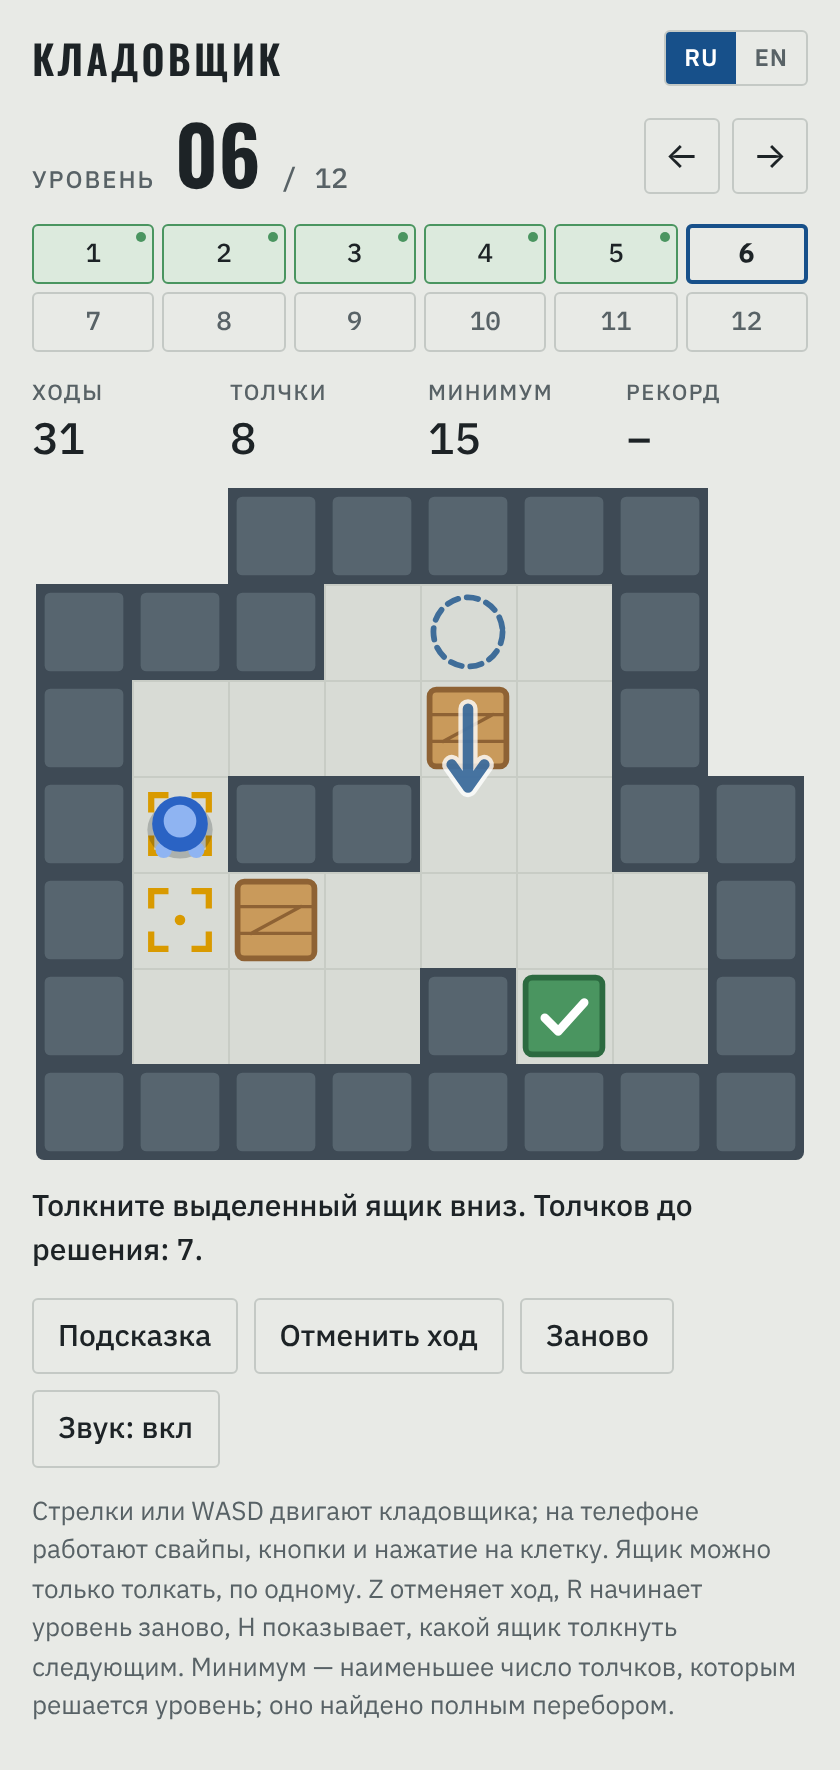
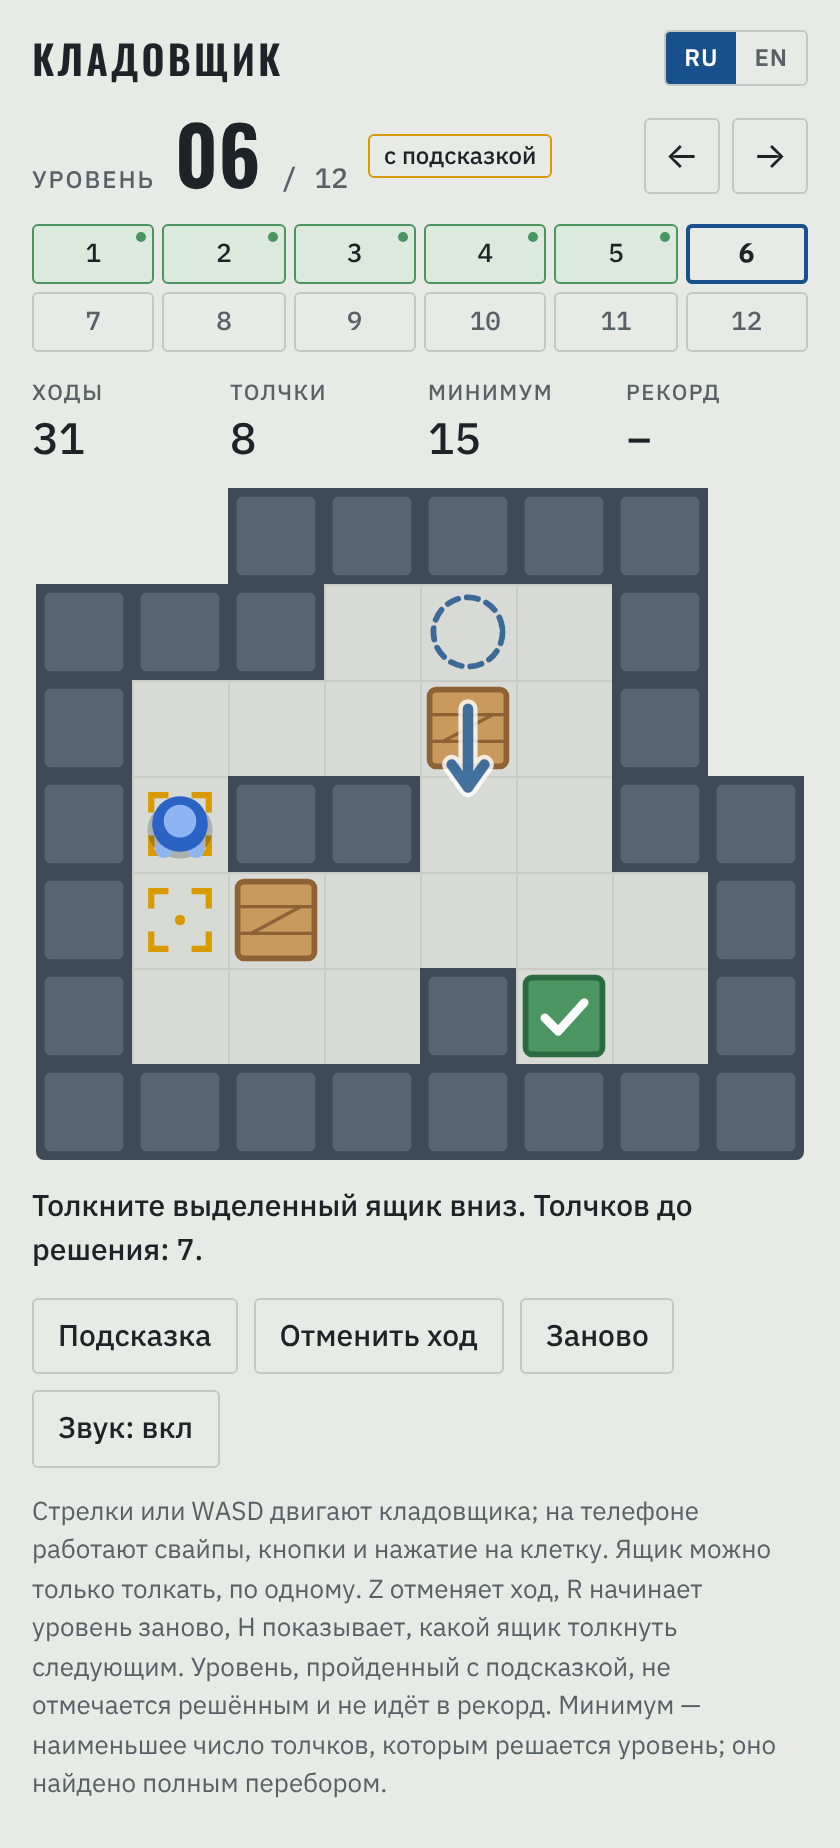
Do not count solutions that used a hint
Asking for a hint flags the attempt. A flagged solution is not marked
as solved and never replaces a record; a record earned earlier without
a hint stays. The flag shows next to the level number, survives a page
reload, and clears only when the level is started again.

README explains the rule; screenshots retaken.

Claude-Session: https://claude.ai/code/session_011m9jhDwSHMzssbNRw4qgWG

diff --git a/index.html b/index.html
@@ -129,7 +129,16 @@
   .lang button:focus-visible { outline-offset: -2px; }
 
   .level { display: flex; align-items: center; justify-content: space-between; gap: 10px; }
-  .level-name { margin: 0; display: flex; align-items: baseline; gap: 10px; min-width: 0; }
+  .level-name { margin: 0; display: flex; align-items: baseline; flex-wrap: wrap; gap: 4px 10px; min-width: 0; }
+  .flag {
+    align-self: center;
+    font-size: 12px;
+    font-weight: 500;
+    color: var(--ink);
+    border: 1px solid var(--mark);
+    border-radius: 3px;
+    padding: 1px 7px;
+  }
   .level-word { font-size: 12px; font-weight: 500; letter-spacing: 0.08em; text-transform: uppercase; color: var(--muted); }
   .level-n { font-family: var(--display); font-weight: 600; font-size: 46px; line-height: 1; font-variant-numeric: tabular-nums; }
   .level-of { font-family: var(--mono); font-size: 14px; color: var(--muted); }
@@ -260,6 +269,7 @@
       <span class="level-word" id="levelWord">Уровень</span>
       <span class="level-n" id="levelN">01</span>
       <span class="level-of" id="levelOf">/ 12</span>
+      <span class="flag" id="hintFlag" hidden>с подсказкой</span>
     </p>
     <div class="steps">
       <button class="sq" id="prev" type="button" aria-label="Предыдущий уровень">&#8592;</button>
@@ -357,6 +367,9 @@
       overTitle: 'Уровень решён', overStats: 'Ходы {m} · толчки {p} · минимум {par}',
       overPar: 'Это наименьшее возможное число толчков.', overBest: 'Новый рекорд.',
       overAll: 'Все {t} уровней решены.',
+      flag: 'с подсказкой', solvedHint: 'Уровень пройден с подсказкой. В рекорд он не идёт.',
+      overHinted: 'С подсказкой уровень не отмечается решённым и не идёт в рекорд. Пройдите его заново без подсказки.',
+      overHintedKept: 'Это прохождение было с подсказкой и в рекорд не идёт. Прежний рекорд сохранён.',
       nextLevel: 'Следующий уровень', again: 'Пройти ещё раз',
       undo: 'Отменить ход', restart: 'Заново', soundOn: 'Звук: вкл', soundOff: 'Звук: выкл',
       up: 'Вверх', down: 'Вниз', left: 'Влево', right: 'Вправо',
@@ -366,7 +379,7 @@
       dead: 'Отсюда уровень не решить. Вернитесь на {n} {mv}.',
       rewind: 'Вернуться на {n} {mv}', rewound: 'Позиция возвращена. Отсюда уровень решается.',
       hintOff: 'Для этого уровня подсказка недоступна.',
-      note: 'Стрелки или WASD двигают кладовщика; на телефоне работают свайпы, кнопки и нажатие на клетку. Ящик можно только толкать, по одному. Z отменяет ход, R начинает уровень заново, H показывает, какой ящик толкнуть следующим. Минимум — наименьшее число толчков, которым решается уровень; оно найдено полным перебором.'
+      note: 'Стрелки или WASD двигают кладовщика; на телефоне работают свайпы, кнопки и нажатие на клетку. Ящик можно только толкать, по одному. Z отменяет ход, R начинает уровень заново, H показывает, какой ящик толкнуть следующим. Уровень, пройденный с подсказкой, не отмечается решённым и не идёт в рекорд. Минимум — наименьшее число толчков, которым решается уровень; оно найдено полным перебором.'
     },
     en: {
       title: 'Storekeeper', level: 'Level', prev: 'Previous level', next: 'Next level',
@@ -378,6 +391,9 @@
       overTitle: 'Level solved', overStats: 'Moves {m} · pushes {p} · minimum {par}',
       overPar: 'That is the fewest pushes possible.', overBest: 'A new best.',
       overAll: 'All {t} levels solved.',
+      flag: 'hint used', solvedHint: 'Level finished with a hint. It does not count as a best.',
+      overHinted: 'With a hint the level is not marked as solved and does not count as a best. Play it again without a hint.',
+      overHintedKept: 'This run used a hint and does not count. Your earlier best stays.',
       nextLevel: 'Next level', again: 'Play again',
       undo: 'Undo move', restart: 'Restart', soundOn: 'Sound: on', soundOff: 'Sound: off',
       up: 'Up', down: 'Down', left: 'Left', right: 'Right',
@@ -387,7 +403,7 @@
       dead: 'The level cannot be solved from here. Go back {n} {mv}.',
       rewind: 'Go back {n} {mv}', rewound: 'Position restored. The level can be solved from here.',
       hintOff: 'No hint is available for this level.',
-      note: 'Arrow keys or WASD move the storekeeper; on a phone, swipe, use the buttons or tap a cell. A crate can only be pushed, one at a time. Z undoes a move, R restarts the level, H shows which crate to push next. Minimum is the fewest pushes that solve the level, found by exhaustive search.'
+      note: 'Arrow keys or WASD move the storekeeper; on a phone, swipe, use the buttons or tap a cell. A crate can only be pushed, one at a time. Z undoes a move, R restarts the level, H shows which crate to push next. A level finished with a hint is not marked as solved and does not count as a best. Minimum is the fewest pushes that solve the level, found by exhaustive search.'
     }
   };
   // a saved choice wins; otherwise Russian for anyone who lists it among their browser languages
@@ -461,6 +477,7 @@
   var depthCache = {};       // level -> Map from position to the fewest pushes that solve it
   var hintState = null;      // { box, d, stand } for the push being suggested
   var rewindN = 0;           // moves to take back when the position cannot be solved
+  var hintUsed = false;      // a hint was asked for on this attempt, so it will not count
   var clockT = 0;
   var DIR = { u: [0, -1], d: [0, 1], l: [-1, 0], r: [1, 0] };
 
@@ -474,7 +491,7 @@
     return s;
   }
 
-  function loadLevel(i, replay) {
+  function loadLevel(i, replay, hinted) {
     levelIdx = Math.max(0, Math.min(LEVELS.length - 1, i | 0));
     var rows = LEVELS[levelIdx].rows;
     H = rows.length; W = 0;
@@ -511,6 +528,7 @@
     history = []; moves = 0; pushes = 0; solved = false; queue = []; anim = null; face = [0, 1]; lastWin = null;
     OFF = [1, -1, W, -W];
     hintState = null; rewindN = 0; paintHintBtn();
+    hintUsed = !!hinted;
     elOver.hidden = true;
     if (replay) {
       for (var k = 0; k < replay.length && !solved; k++) {
@@ -709,6 +727,7 @@
       if (asked !== levelIdx || solved) return;
       var r = computeHint();
       hintState = null; rewindN = 0;
+      if (r.type === 'push' || r.type === 'dead') { hintUsed = true; paintHud(); persist(); }
       if (r.type === 'push') {
         hintState = r;
         say('hintPush', { dir: r.d === 1 ? 'r' : r.d === -1 ? 'l' : r.d === W ? 'd' : 'u', n: r.left });
@@ -727,11 +746,11 @@
   function win(silent) {
     solved = true; queue = [];
     var par = LEVELS[levelIdx].par, old = records[levelIdx];
-    var better = !old || pushes < old.p || (pushes === old.p && moves < old.m);
+    var better = !hintUsed && (!old || pushes < old.p || (pushes === old.p && moves < old.m));
     if (better) { records[levelIdx] = { p: pushes, m: moves }; save('sklad-records', JSON.stringify(records)); }
     if (silent) return;
-    lastWin = { m: moves, p: pushes, par: par, best: better && !!old };
-    say('solved', { p: pushes, par: par });
+    lastWin = { m: moves, p: pushes, par: par, best: better && !!old, hinted: hintUsed, kept: !!old };
+    if (hintUsed) say('solvedHint'); else say('solved', { p: pushes, par: par });
     paintOver();
     elOver.hidden = false;
     [523, 659, 784, 1047].forEach(function (f, n) { tone(f, 0.22, 'triangle', 0.08, n * 0.09); });
@@ -752,6 +771,7 @@
     $('prev').disabled = levelIdx === 0;
     $('next').disabled = levelIdx === LEVELS.length - 1;
     $('undo').disabled = solved || !history.length;
+    $('hintFlag').hidden = !hintUsed;
     var chips = elChips.children;
     for (var i = 0; i < chips.length; i++) {
       chips[i].classList.toggle('solved', !!records[i]);
@@ -764,9 +784,11 @@
     $('overTitle').textContent = tr('overTitle');
     $('overStats').textContent = tr('overStats', lastWin);
     var lines = [];
-    if (lastWin.p === lastWin.par) lines.push(tr('overPar'));
+    if (lastWin.hinted) lines.push(tr(lastWin.kept ? 'overHintedKept' : 'overHinted'));
+    else if (lastWin.p === lastWin.par) lines.push(tr('overPar'));
     else if (lastWin.best) lines.push(tr('overBest'));
-    if (countSolved() === LEVELS.length) lines.push(tr('overAll', { t: LEVELS.length }));
+    if (!lastWin.hinted && countSolved() === LEVELS.length) lines.push(tr('overAll', { t: LEVELS.length }));
+    $('overGood').classList.toggle('good', !lastWin.hinted);
     $('overGood').textContent = lines.join(' ');
     $('overGood').hidden = !lines.length;
     $('overNext').textContent = tr('nextLevel');
@@ -783,6 +805,7 @@
     document.title = tr('title');
     $('title').textContent = tr('title');
     $('levelWord').textContent = tr('level');
+    $('hintFlag').textContent = tr('flag');
     $('prev').setAttribute('aria-label', tr('prev'));
     $('next').setAttribute('aria-label', tr('next'));
     $('movesL').textContent = tr('moves');
@@ -1033,7 +1056,7 @@
   $('langEn').addEventListener('click', function () { setLang('en'); });
 
   /* ---------- persistence ---------- */
-  function snapshot() { return { level: levelIdx, hist: solved ? '' : historyString() }; }
+  function snapshot() { return { level: levelIdx, hist: solved ? '' : historyString(), hinted: hintUsed && !solved }; }
   function persist() { save('sklad-progress', JSON.stringify(snapshot())); }
 
   /* ---------- boot ---------- */
@@ -1048,7 +1071,7 @@
     }
     readTokens();
     var ok = data && typeof data.level === 'number' && data.level >= 0 && data.level < LEVELS.length;
-    loadLevel(ok ? data.level : 0, ok && typeof data.hist === 'string' ? data.hist.slice(0, 4000) : '');
+    loadLevel(ok ? data.level : 0, ok && typeof data.hist === 'string' ? data.hist.slice(0, 4000) : '', ok && data.hinted === true);
     applyLang();
     requestAnimationFrame(frame);
   }

diff --git a/README.md b/README.md
@@ -73,6 +73,8 @@ node tools/verify-levels.js
 
 Если позицию уже нельзя решить, игра говорит, на сколько ходов нужно вернуться. Второе нажатие на ту же кнопку возвращает их само.
 
+Прохождение с подсказкой не засчитывается: уровень не отмечается решённым и результат не идёт в рекорд. Рядом с номером уровня появляется пометка «с подсказкой». Она держится до конца попытки и переживает перезагрузку страницы; снимает её только кнопка «Заново» или переход на уровень заново. Рекорд, взятый раньше без подсказки, остаётся на месте.
+
 Подсказка считается прямо в браузере тем же обратным перебором, что и в генераторе. Первый запрос на уровне занимает доли секунды, следующие отвечают сразу.
 
 Игра считает ходы и толчки и запоминает лучший результат по каждому уровню. Текущая позиция, решённые уровни и рекорды хранятся в браузере игрока.
